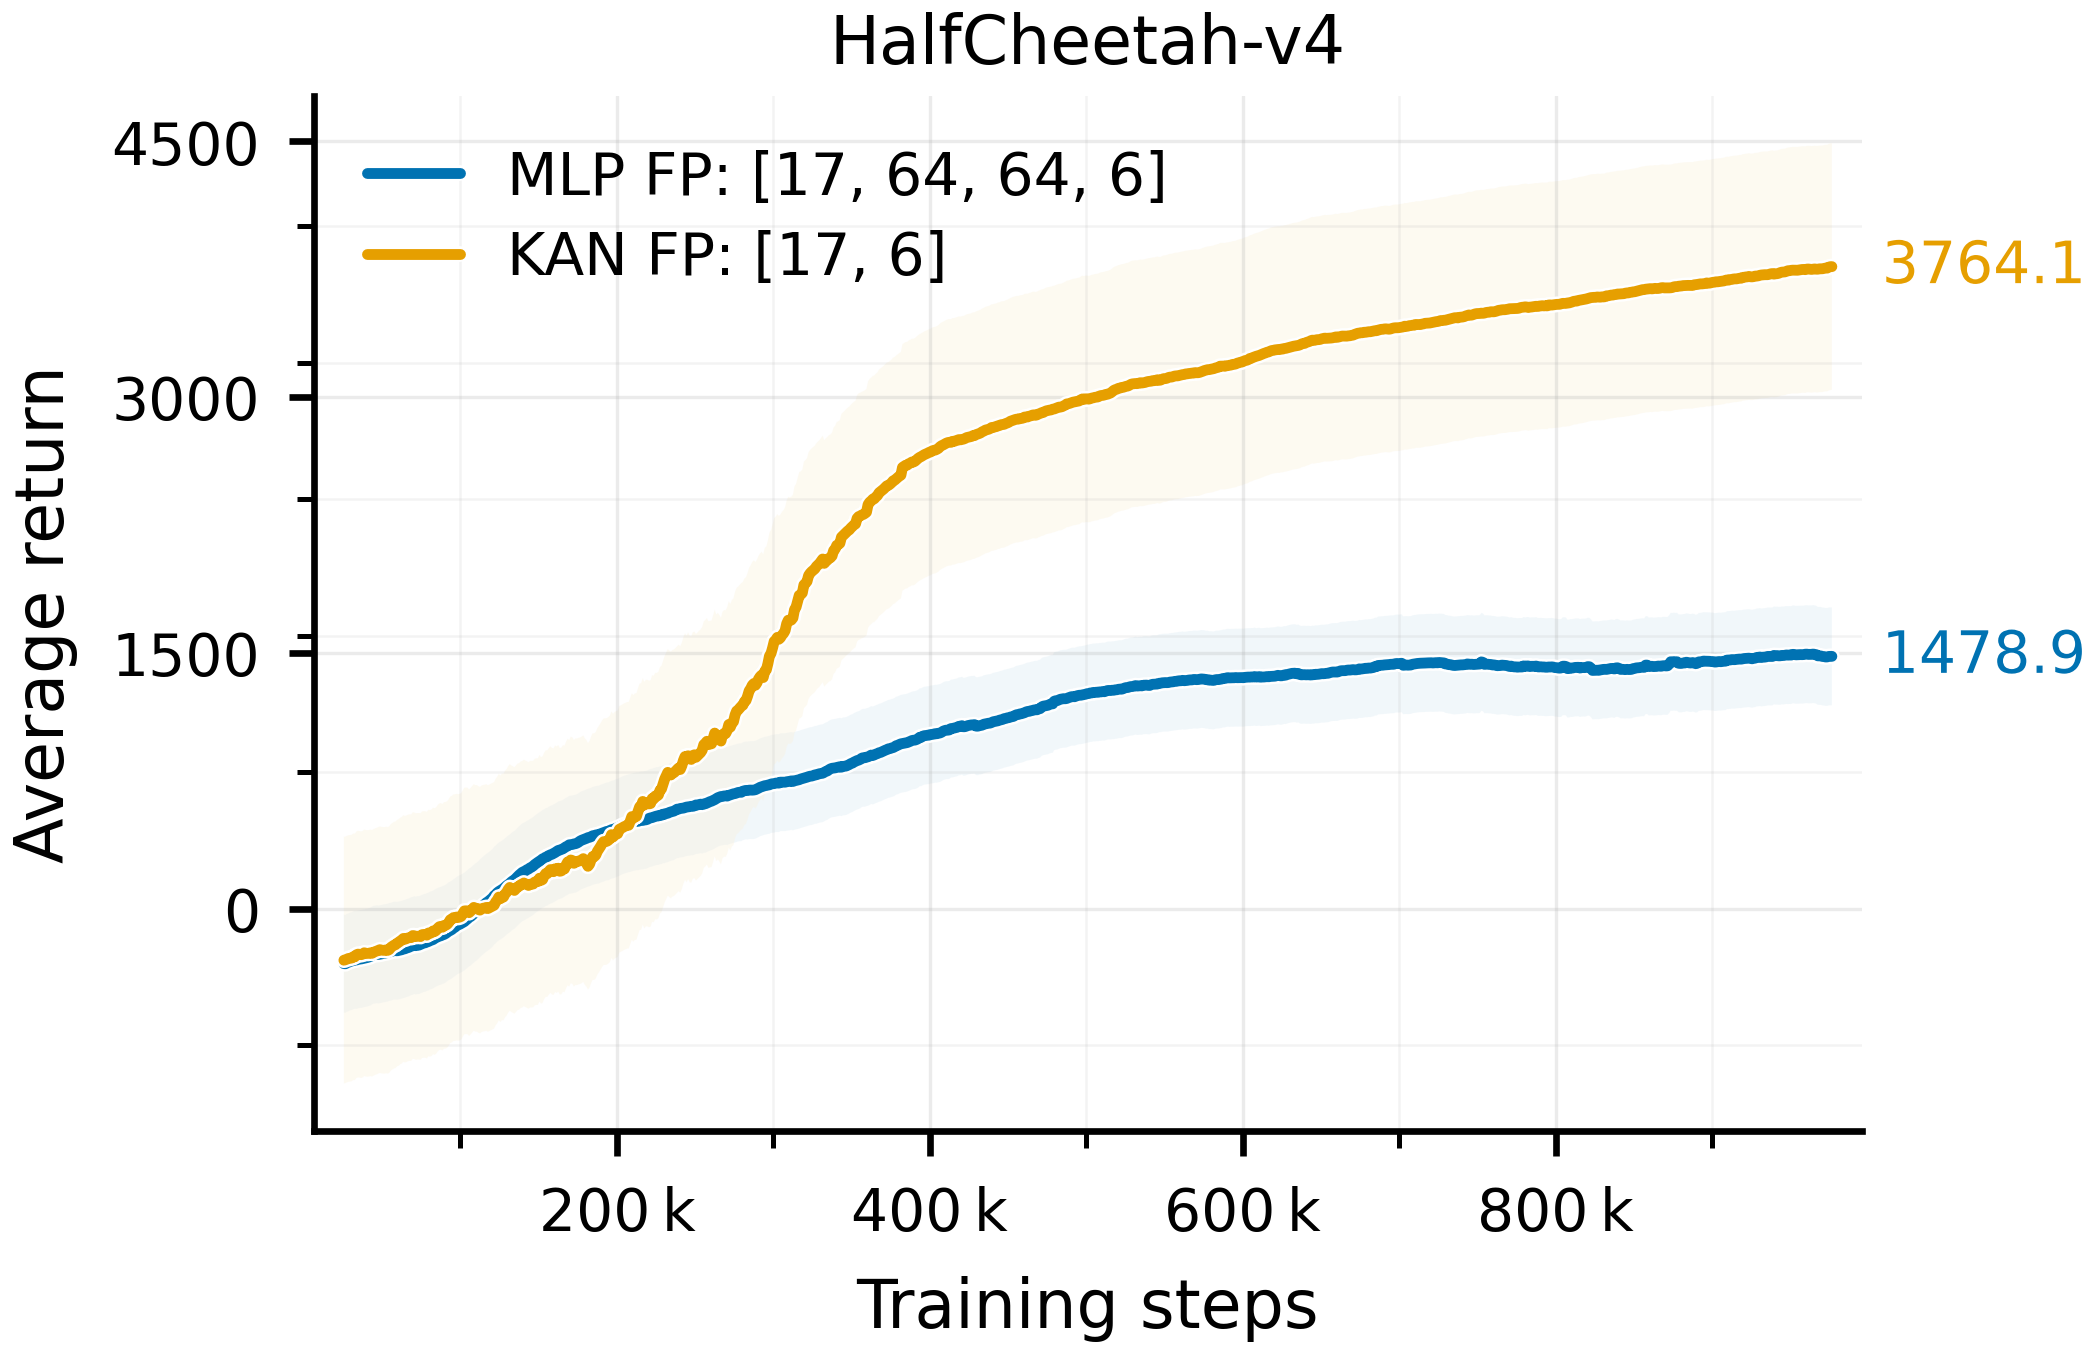
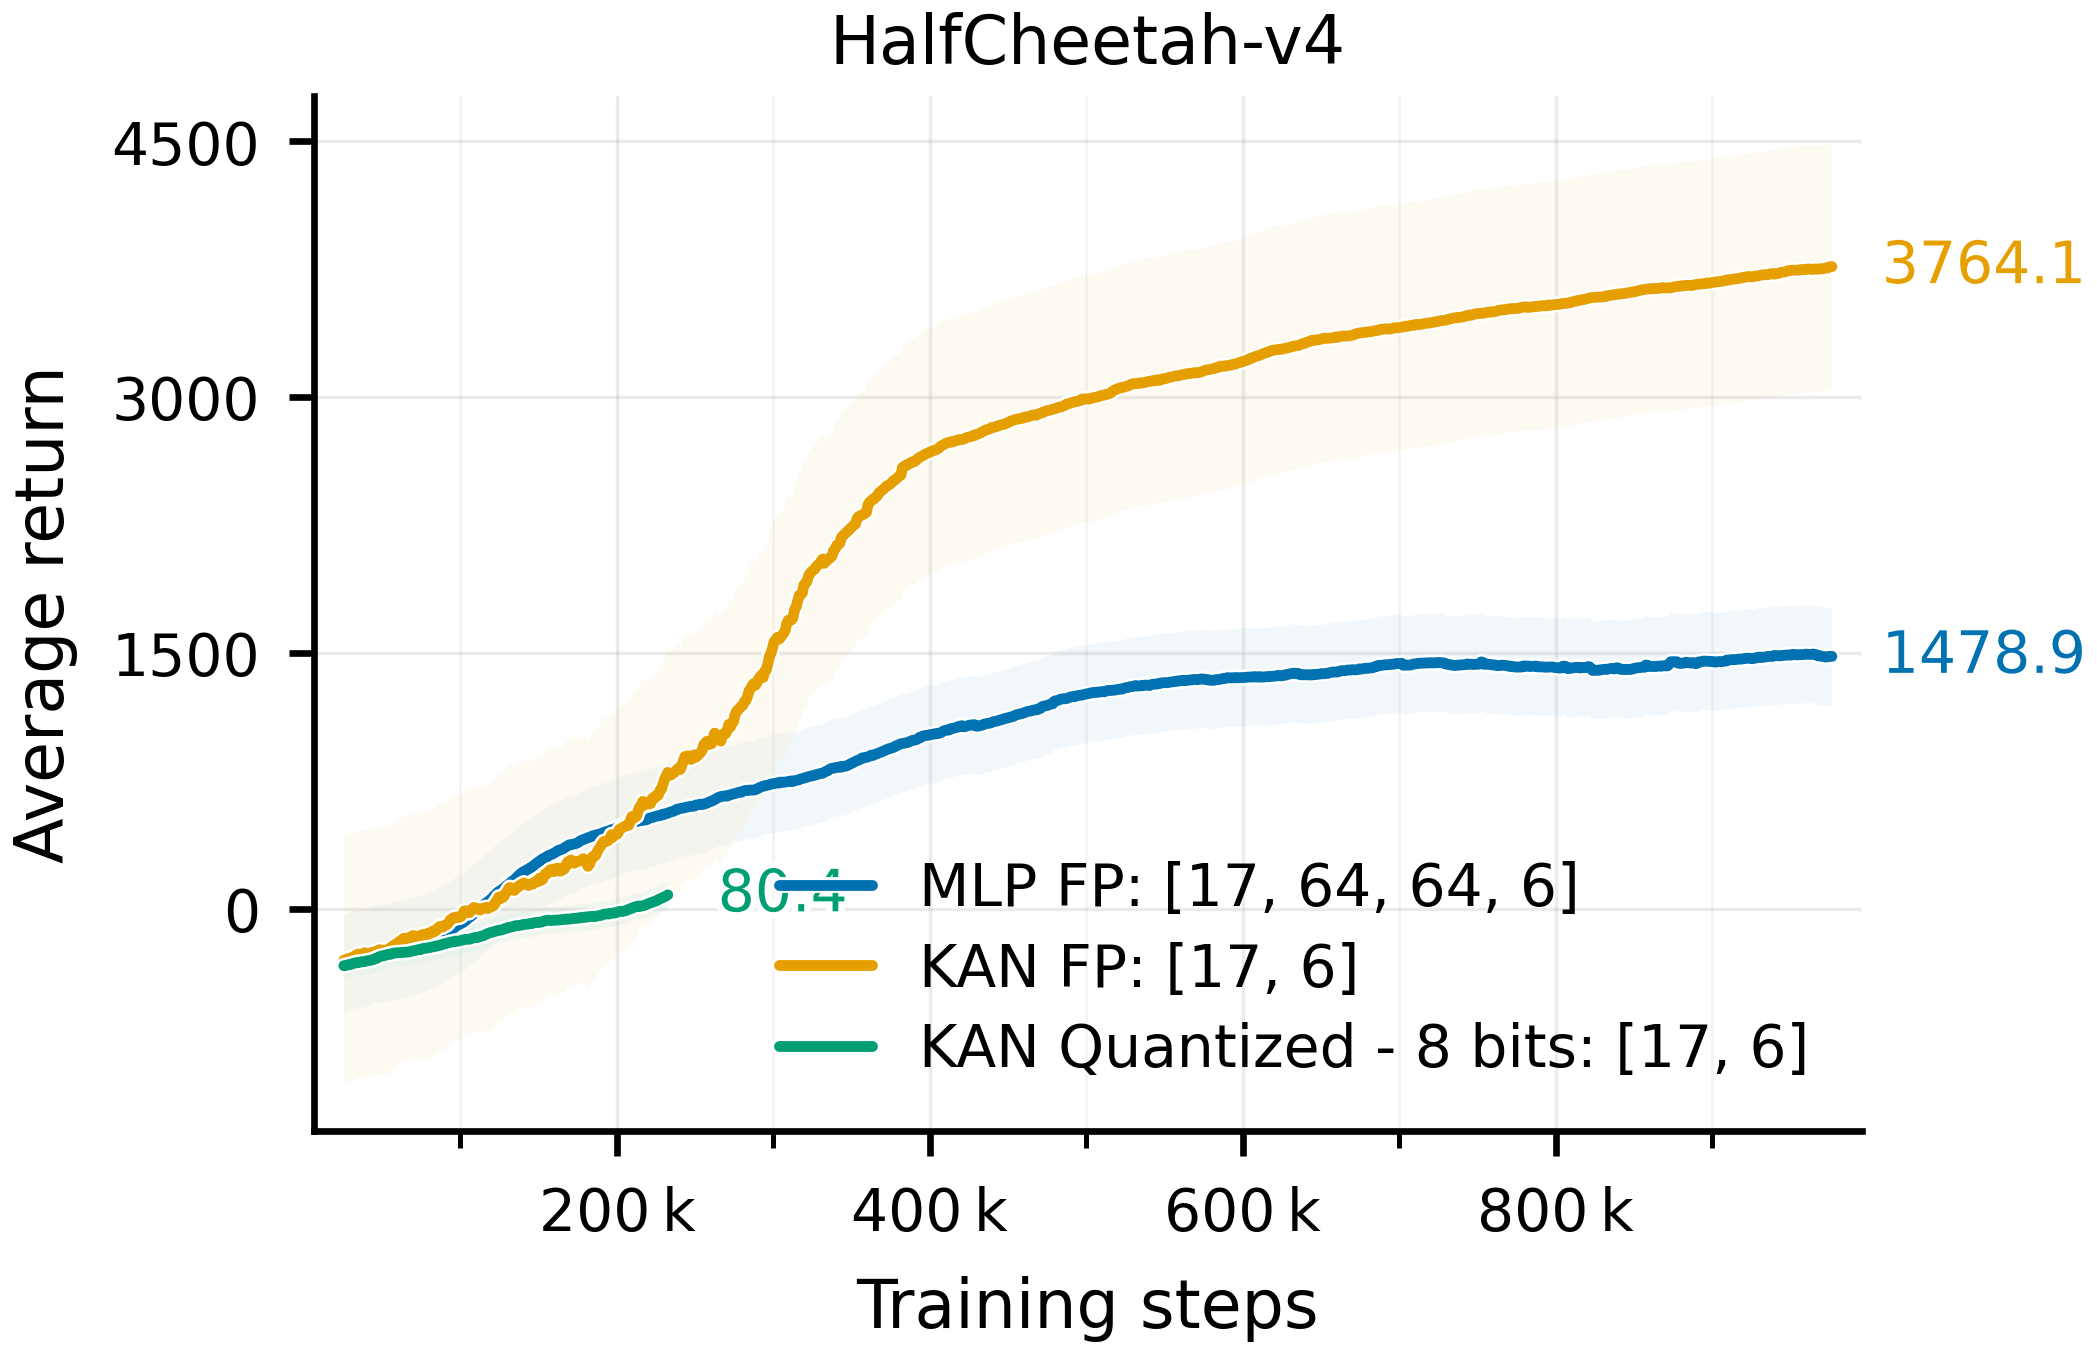
first RL setup

diff --git a/benchmarks/RL/train_quant.py b/benchmarks/RL/train_quant.py
@@ -1,4 +1,4 @@
-import os, sys
+import os, sys, json
 import gymnasium as gym
 import torch
 import torch.nn as nn
@@ -7,11 +7,20 @@ from stable_baselines3.common.monitor import Monitor
 from stable_baselines3.common.policies import ActorCriticPolicy
 
 sys.path.append('../../src')
-from KAN_OG import KAN
+from KANQuant import KANQuant
+
+#For quantization
+from brevitas.nn import QuantHardTanh
+from brevitas.core.scaling import ParameterScaling
+from brevitas.core.quant import QuantType
+from quant import QuantBrevitasActivation, ScalarBiasScale
 
 ENV_ID = "HalfCheetah-v4"
-LOG_DIR = "logs_kan_direct"
+LOG_DIR = "logs_kan_quant"
 SEED = 42
+
+#Set the device
+device = torch.device("cuda" if torch.cuda.is_available() else "cpu")
 
 # -----------------------
 # Custom extractor: uses KAN as the actor "backbone"
@@ -24,12 +33,22 @@ class KANAsActorExtractor(nn.Module):
       - forward_critic(features) -> latent_vf
       - forward(features) -> (latent_pi, latent_vf)
     """
-    def __init__(self, feature_dim: int, action_dim: int, critic_layers=(64, 64), kan_kwargs=None):
+    def __init__(self, feature_dim: int, action_dim: int, critic_layers=(64, 64), kan_config=None):
         super().__init__()
-        kan_kwargs = kan_kwargs or {}
 
+        #Build the input layer
+        input_layer = QuantBrevitasActivation(
+            QuantHardTanh(bit_width = kan_config["layers_bitwidth"][0],
+            max_val=1.0,
+            min_val=-1.0,
+            act_scaling_impl=ParameterScaling(1.33),
+            quant_type=QuantType.INT,
+            return_quant_tensor = False),
+            pre_transforms=[],
+            cuda=device.type == "cuda").to(device)
+        
         # Actor: KAN maps obs -> action_dim (direct means)
-        self.policy_net = KAN([feature_dim, action_dim], **kan_kwargs)
+        self.policy_net = KANQuant(kan_config, input_layer, device).to(device)
         self.latent_dim_pi = action_dim
 
         # Critic: MLP maps obs -> latent_vf
@@ -60,8 +79,8 @@ class KANDirectPolicy(ActorCriticPolicy):
       - builds an extractor whose policy_net is a KAN (17 -> 6)
       - replaces SB3's action_net with Identity so KAN outputs are used as means directly.
     """
-    def __init__(self, *args, kan_kwargs=None, critic_layers=(64,64), **kwargs):
-        self._kan_kwargs = kan_kwargs or {}
+    def __init__(self, *args, critic_layers=(64,64), **kwargs):
+        self.kan_config = kwargs.pop("kan_config")
         self._critic_layers = list(critic_layers)
         super().__init__(*args, **kwargs)
 
@@ -86,7 +105,7 @@ class KANDirectPolicy(ActorCriticPolicy):
             feature_dim=obs_feat_dim,
             action_dim=action_dim,
             critic_layers=self._critic_layers,
-            kan_kwargs=self._kan_kwargs,
+            kan_config=self.kan_config,
         )
 
 # -----------------------
@@ -99,26 +118,27 @@ def train(total_timesteps=1_000_000):
     env = gym.make(ENV_ID)
     env = Monitor(env, LOG_DIR)
 
-    # Define KAN hyperparameters
-    kan_hyperparams = dict(
-        grid_size=5,
-        spline_order=3,
-        grid_range=[-2, 2],
-        grid_eps=0.05,
-        base_activation=nn.GELU,
-    )
+    kan_config = {
+        "seed": SEED,
+        "layers": [17, 6],
+        "layers_bitwidth": [8, 8],
+
+        "grid_size": 5,
+        "spline_order": 3,
+        "grid_range": [-1, 1],
+        "grid_eps": 0.05,
+        
+        "base_activation": "nn.GELU",
+    }
+
+    #Dump the config to a json file
+    with open(f"{LOG_DIR}/config.json", "w") as f: json.dump(kan_config, f)
 
     # Define model
     model = PPO(
         policy=KANDirectPolicy,
         env=env,
-        policy_kwargs=dict(
-            # Critic MLP hidden sizes
-            critic_layers=[64, 64],
-            # KAN hyperparameters passed into KANAsActorExtractor
-            kan_kwargs=kan_hyperparams,
-            # Leave the normal features extractor (flatten) so features_dim == obs_dim
-        ),
+        policy_kwargs=dict(critic_layers=[64, 64], kan_config=kan_config),
         verbose=1,
         seed=SEED,
         n_steps=2048,
@@ -131,6 +151,11 @@ def train(total_timesteps=1_000_000):
     # Train model
     model.learn(total_timesteps=total_timesteps)
     env.close()
+
+    # Save the model
+    kan_model = model.policy.mlp_extractor.policy_net
+    checkpoint = {'model_state_dict': kan_model.state_dict()}
+    torch.save(checkpoint, f"{LOG_DIR}/kan_model.pt")
 
 if __name__ == "__main__":
     train(total_timesteps=1_000_000)

diff --git a/benchmarks/RL/plot.py b/benchmarks/RL/plot.py
@@ -225,10 +225,10 @@ def plot_models(
     ax.xaxis.set_major_locator(MaxNLocator(5))
     ax.yaxis.set_major_locator(MaxNLocator(5))
     ax.xaxis.set_minor_locator(MaxNLocator(10))
-    ax.yaxis.set_minor_locator(MaxNLocator(10))
+    # ax.yaxis.set_minor_locator(MaxNLocator(10))
     ax.xaxis.set_major_formatter(EngFormatter(sep="\N{THIN SPACE}"))
     ax.grid(True, which="minor", linewidth=0.3, alpha=0.15)
-    ax.legend(frameon=False, loc="upper left", handlelength=1.6, borderaxespad=0.5, labelspacing=0.4)
+    ax.legend(frameon=False, loc="lower right", handlelength=1.6, borderaxespad=0.5, labelspacing=0.4)
     ax.margins(x=0.02, y=0.05)
 
     # Save
@@ -270,6 +270,7 @@ if __name__ == "__main__":
         models=[
             ("logs/HalfCheetah-v4_seed_42", "MLP FP: [17, 64, 64, 6]"),
             ("logs_kan_direct/monitor.csv", "KAN FP: [17, 6]"),
+            ("logs_kan_quant/monitor.csv", "KAN Quantized - 8 bits: [17, 6]"),
         ],
         env_name="HalfCheetah-v4",
         out_name="halfcheetah_comparison",
